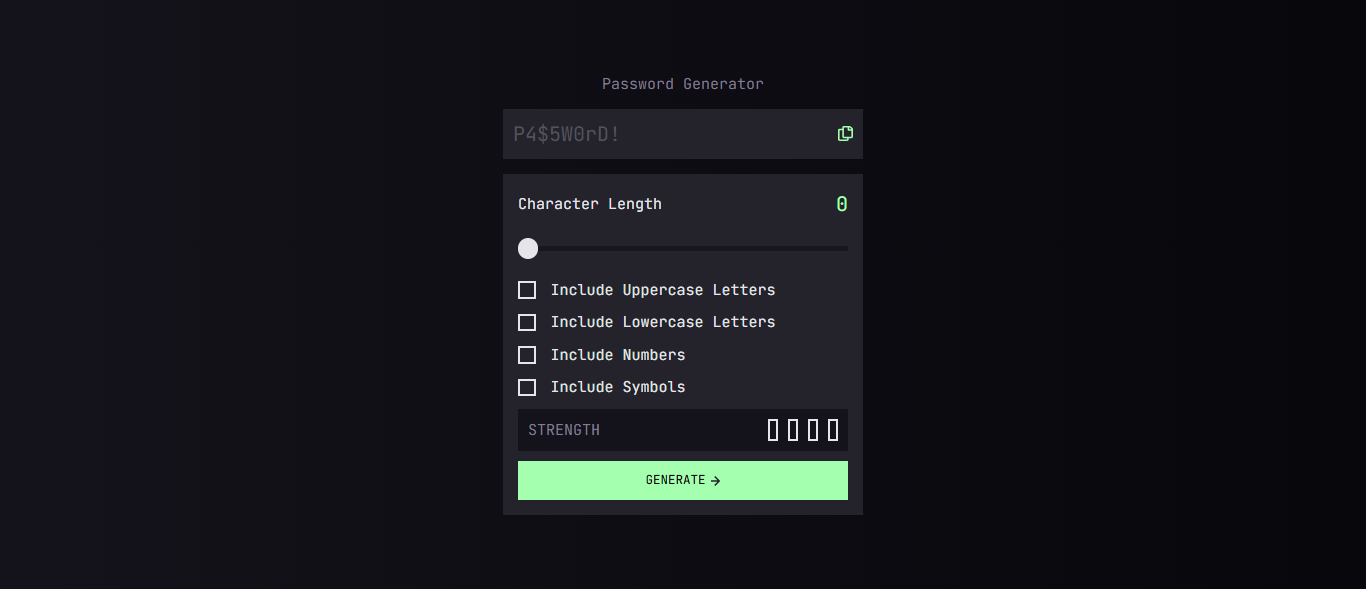
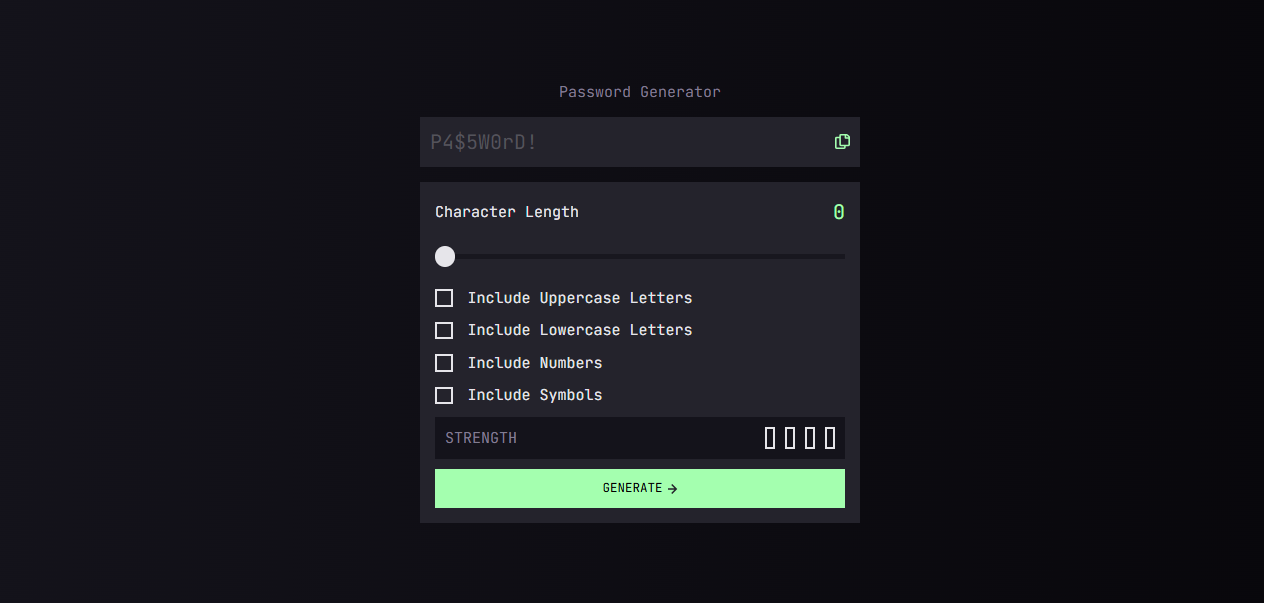
refractor: updates according to frontend mentor reports

diff --git a/index.html b/index.html
@@ -3,7 +3,6 @@
   <head>
     <meta charset="UTF-8" />
     <meta name="viewport" content="width=device-width, initial-scale=1.0" />
-
     <link
       rel="icon"
       type="image/png"
@@ -11,14 +10,12 @@
       href="./assets/images/favicon-32x32.png"
     />
     <link rel="stylesheet" href="index.css" />
-
     <link rel="preconnect" href="https://fonts.googleapis.com" />
     <link rel="preconnect" href="https://fonts.gstatic.com" crossorigin />
     <link
       href="https://fonts.googleapis.com/css2?family=JetBrains+Mono:ital,wght@0,100..800;1,100..800&display=swap"
       rel="stylesheet"
     />
-
     <script src="https://cdn.jsdelivr.net/npm/@tailwindcss/browser@4"></script>
     <title>Password generator</title>
   </head>
@@ -33,7 +30,6 @@
         <section>
           <div class="bg-[#24232c] flex justify-between items-center p-2 mb-3">
             <p id="password" class="text-[#54535B]">P4$5W0rD!</p>
-            <!-- #E6E5EA -->
             <div class="flex gap-1 items-center">
               <span
                 id="copied"
@@ -62,13 +58,14 @@
 
             <!-- Slider -->
             <div class="mb-4">
+              <label for="slider" class="sr-only">Character Length</label>
               <input
                 id="slider"
                 type="range"
                 min="0"
                 max="20"
                 value="0"
-                class="w-full h-1 appearance-none cursor-pointer rounded-none"
+                class="slider w-full h-1 appearance-none cursor-pointer rounded-none"
                 style="--fill: 0%"
               />
             </div>
@@ -76,58 +73,74 @@
             <!-- Lists -->
             <ul class="text-[11px] text-[#E6E5EA] mb-2">
               <li class="flex items-center gap-3 mb-2">
-                <div id="uppercase" class="flex items-center checkbox-box box">
-                  <img
-                    src="./assets/images/icon-check.svg"
-                    alt="check-icon"
+                <label class="flex items-center gap-3 cursor-pointer">
+                  <input type="checkbox" class="sr-only" />
+                  <div
                     id="uppercase"
-                    class="check-icon"
-                  />
-                </div>
-                <span class="text-[clamp(10px,1.5vw,12px)]"
-                  >Include Uppercase Letters</span
-                >
+                    class="flex items-center checkbox-box box"
+                  >
+                    <img
+                      src="./assets/images/icon-check.svg"
+                      alt=""
+                      class="check-icon"
+                    />
+                  </div>
+                  <span class="text-[clamp(10px,1.5vw,12px)]"
+                    >Include Uppercase Letters</span
+                  >
+                </label>
               </li>
               <li class="flex items-center gap-3 mb-2">
-                <div id="lowercase" class="flex items-center checkbox-box box">
-                  <img
-                    src="./assets/images/icon-check.svg"
-                    alt="check-icon"
-                    class="check-icon"
-                  />
-                </div>
-                <span class="text-[clamp(10px,1.5vw,12px)]"
-                  >Include Lowercase Letters</span
-                >
+                <label class="flex items-center gap-3 cursor-pointer">
+                  <input type="checkbox" class="sr-only" />
+                  <div
+                    id="lowercase"
+                    class="flex items-center checkbox-box box"
+                  >
+                    <img
+                      src="./assets/images/icon-check.svg"
+                      alt=""
+                      class="check-icon"
+                    />
+                  </div>
+                  <span class="text-[clamp(10px,1.5vw,12px)]"
+                    >Include Lowercase Letters</span
+                  >
+                </label>
               </li>
               <li class="flex items-center gap-3 mb-2">
-                <div id="numbers" class="flex items-center checkbox-box box">
-                  <img
-                    src="./assets/images/icon-check.svg"
-                    alt="check-icon"
-                    class="check-icon"
-                  />
-                </div>
-                <span class="text-[clamp(10px,1.5vw,12px)]"
-                  >Include Numbers</span
-                >
+                <label class="flex items-center gap-3 cursor-pointer">
+                  <input type="checkbox" class="sr-only" />
+                  <div id="numbers" class="flex items-center checkbox-box box">
+                    <img
+                      src="./assets/images/icon-check.svg"
+                      alt=""
+                      class="check-icon"
+                    />
+                  </div>
+                  <span class="text-[clamp(10px,1.5vw,12px)]"
+                    >Include Numbers</span
+                  >
+                </label>
               </li>
               <li class="flex items-center gap-3">
-                <div id="symbols" class="flex items-center checkbox-box box">
-                  <img
-                    src="./assets/images/icon-check.svg"
-                    alt="check-icon"
-                    class="check-icon"
-                  />
-                </div>
-                <span class="text-[clamp(10px,1.5vw,12px)]"
-                  >Include Symbols</span
-                >
+                <label class="flex items-center gap-3 cursor-pointer">
+                  <input type="checkbox" class="sr-only" />
+                  <div id="symbols" class="flex items-center checkbox-box box">
+                    <img
+                      src="./assets/images/icon-check.svg"
+                      alt=""
+                      class="check-icon"
+                    />
+                  </div>
+                  <span class="text-[clamp(10px,1.5vw,12px)]"
+                    >Include Symbols</span
+                  >
+                </label>
               </li>
             </ul>
 
             <!-- strength -->
-
             <div
               class="bg-[#14131B] flex justify-between items-center p-2 mb-2"
             >
@@ -157,7 +170,7 @@
             <!-- Generate button -->
             <div
               id="generate-btn"
-              class="hover:border-1 hover:text-[#A4FFAF] hover:border-[#A4FFAF] hover:bg-[#24232c] bg-[#A4FFAF] flex gap-1 items-center justify-center p-2"
+              class="generate-btn hover:border-1 hover:text-[#A4FFAF] hover:border-[#A4FFAF] hover:bg-[#24232c] bg-[#A4FFAF] flex gap-1 items-center justify-center p-2"
             >
               <span class="text-[10px]">GENERATE</span>
               <img
@@ -170,7 +183,6 @@
         </section>
       </main>
     </div>
-
     <script defer src="main.js"></script>
   </body>
 </html>

diff --git a/index.css b/index.css
@@ -1,42 +1,35 @@
+:root {
+  --color-green: #a4ffaf;
+  --color-white: #e6e5ea;
+  --color-dark: #18171f;
+  --color-red: #f64a4a;
+  --color-orange: #fb7c58;
+  --color-yellow: #f8cd65;
+  --border-default: 2px solid var(--color-white);
+  --border-green: 2px solid var(--color-green);
+  --thumb-size: clamp(0.9rem, 1.5vw, 1.25rem);
+  --checkbox-size: clamp(0.75rem, 1.5vw, 0.875rem);
+}
+
 body {
   font-family: "JetBrains Mono", monospace;
 }
 
 .checkbox-box {
-  width: clamp(12px, 1.5vw, 14px);
-  height: clamp(12px, 1.5vw, 14px);
+  width: var(--checkbox-size);
+  height: var(--checkbox-size);
 }
 
 .box {
-  border: 2px solid #e6e5ea;
+  border: var(--border-default);
 }
 
 .password {
-  color: #e6e5ea;
+  color: var(--color-white);
 }
 
 .check-icon {
   display: none;
-}
-
-.uppercase {
-  background-color: #f64a4a;
-  border: none !important;
-}
-
-.lowercase {
-  background-color: #fb7c58;
-  border: none !important;
-}
-
-.number {
-  background-color: #f8cd65;
-  border: none !important;
-}
-
-.symbol {
-  background-color: #a4ffaf;
-  border: none !important;
 }
 
 .icon {
@@ -44,41 +37,41 @@ body {
 }
 
 .checked {
-  border: 2px solid #a4ffaf;
-  background-color: #a4ffaf;
+  border: var(--border-green);
+  background-color: var(--color-green);
 }
 
 .checkbox-box:hover {
-  border: 2px solid #a4ffaf;
+  border: var(--border-green);
 }
 
-#slider {
+.slider {
   background: linear-gradient(
     to right,
-    #a4ffaf var(--fill),
-    #18171f var(--fill)
+    var(--color-green) var(--fill),
+    var(--color-dark) var(--fill)
   );
 }
 
-#slider::-webkit-slider-thumb {
+.slider::-webkit-slider-thumb {
   appearance: none;
-  width: clamp(15px, 1.5vw, 20px);
-  height: clamp(15px, 1.5vw, 20px);
+  width: var(--thumb-size);
+  height: var(--thumb-size);
   border-radius: 100%;
-  background: #e6e5ea;
+  background: var(--color-white);
   cursor: pointer;
 }
 
-#slider::-webkit-slider-thumb:hover {
+.slider::-webkit-slider-thumb:hover {
   background: #000000;
-  border: 1px solid #a4ffaf;
+  border: 1px solid var(--color-green);
 }
 
-#slider::-moz-range-thumb {
-  width: 20px;
-  height: 20px;
+.slider::-moz-range-thumb {
+  width: var(--thumb-size);
+  height: var(--thumb-size);
   border-radius: 50%;
-  background: #e6e5ea;
+  background: var(--color-white);
   border: none;
   cursor: pointer;
 }
@@ -88,6 +81,6 @@ body {
   cursor: pointer;
 }
 
-#generate-btn:hover img {
+.generate-btn:hover img {
   filter: brightness(0) invert(1) sepia(1) saturate(5) hue-rotate(80deg);
 }

diff --git a/main.js b/main.js
@@ -16,10 +16,10 @@ slider.addEventListener("input", () => {
   character.innerHTML = slider.value;
 });
 
-box.forEach((box) => {
-  box.addEventListener("click", () => {
-    box.classList.toggle("checked");
-    box.querySelector(".check-icon").classList.toggle("icon");
+box.forEach((b) => {
+  b.addEventListener("click", () => {
+    b.classList.toggle("checked");
+    b.querySelector(".check-icon").classList.toggle("icon");
   });
 });
 
